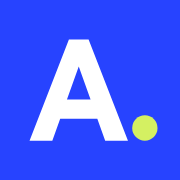
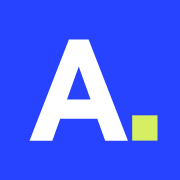
Add files via upload

Changed region(s): [[0.7222, 0.6389, 0.8889, 0.6944], [0.8056, 0.7222, 0.8889, 0.8056], [0.7222, 0.7222, 0.7778, 0.8056]]

diff --git a/auth.js b/auth.js
@@ -25,9 +25,9 @@ const ATLAS_AUTH_KEY = 'atlas_auth_v1';
       '<svg id="atlas-gate-logo" viewBox="0 0 64 64" xmlns="http://www.w3.org/2000/svg" aria-hidden="true">',
         '<rect width="64" height="64" rx="14" fill="#2743ff"/>',
         '<path d="M10.5 50 L24.5 14 H31.5 L45.5 50 H37.4 L34.6 42.2 H21.4 L18.6 50 Z M23.8 35.4 H32.2 L28 23.6 Z" fill="#fff"/>',
-        '<circle cx="51.5" cy="45.5" r="4.5" fill="#d4f062"/>',
+        '<rect x="47" y="41" width="9" height="9" fill="#d4f062"/>',
       '</svg>',
-      '<h1 id="atlas-gate-wordmark">Atlas<span style="color:#2743ff">.</span></h1>',
+      '<h1 id="atlas-gate-wordmark">Atlas<span style="display:inline-block;width:.18em;height:.18em;margin-left:.06em;background:#2743ff;color:transparent;overflow:hidden;vertical-align:baseline;line-height:1">.</span></h1>',
       '<p id="atlas-gate-sub">Private beta &mdash; enter the password to continue.</p>',
       '<form id="atlas-gate-form" autocomplete="off">',
         '<input id="atlas-gate-input" type="password" placeholder="Password" autocomplete="current-password" spellcheck="false">',

diff --git a/scripts-print.html b/scripts-print.html
@@ -469,7 +469,7 @@ function renderScriptPage(script, catLabel, index, total) {
   return `
     <div class="page">
       <div class="print-header">
-        <div class="print-header-logo">Atlas<span class="print-header-logo-accent"> · </span>Conversation Scripts</div>
+        <div class="print-header-logo">Atlas<span class="print-header-logo-accent">.</span> Conversation Scripts</div>
         <div class="print-header-right">${esc(catLabel)} · Script ${esc(String(index + 1))} of ${esc(String(total))}<br>Printed ${todayStr()}</div>
       </div>
 
@@ -530,7 +530,7 @@ function renderCoverPage(cat, scripts) {
   return `
     <div class="page cover-page">
       <div class="cover-header">
-        <div class="cover-logo">Atlas<span class="cover-logo-accent"> · </span>Conversation Scripts</div>
+        <div class="cover-logo">Atlas<span class="cover-logo-accent">.</span> Conversation Scripts</div>
         <div class="cover-date">Printed ${todayStr()}</div>
       </div>
 

diff --git a/money-print.html b/money-print.html
@@ -643,7 +643,7 @@ const phaseLabels = {
 // ── PAGE HEADER ───────────────────────────────────────────────────────────────
 function pageHeader(title) {
   return `<div class="print-header">
-    <div class="print-logo">Atlas<span class="print-logo-accent"> · </span>Money</div>
+    <div class="print-logo">Atlas<span class="print-logo-accent">.</span> Money</div>
     <div class="print-header-meta">
       <strong>${title}</strong><br>
       Phase: ${phaseLabels[currentPhase] || currentPhase}<br>

diff --git a/goals-print.html b/goals-print.html
@@ -504,7 +504,7 @@ function build() {
     <div class="pages-wrap">
       <div class="page">
         <div class="print-header">
-          <div class="print-logo">Atlas<span class="print-logo-accent"> · </span>Goals</div>
+          <div class="print-logo">Atlas<span class="print-logo-accent">.</span> Goals</div>
           <div class="print-header-meta">
             <strong>Goals Snapshot</strong><br>
             Phase: ${PHASE_LABEL[phase]}<br>
